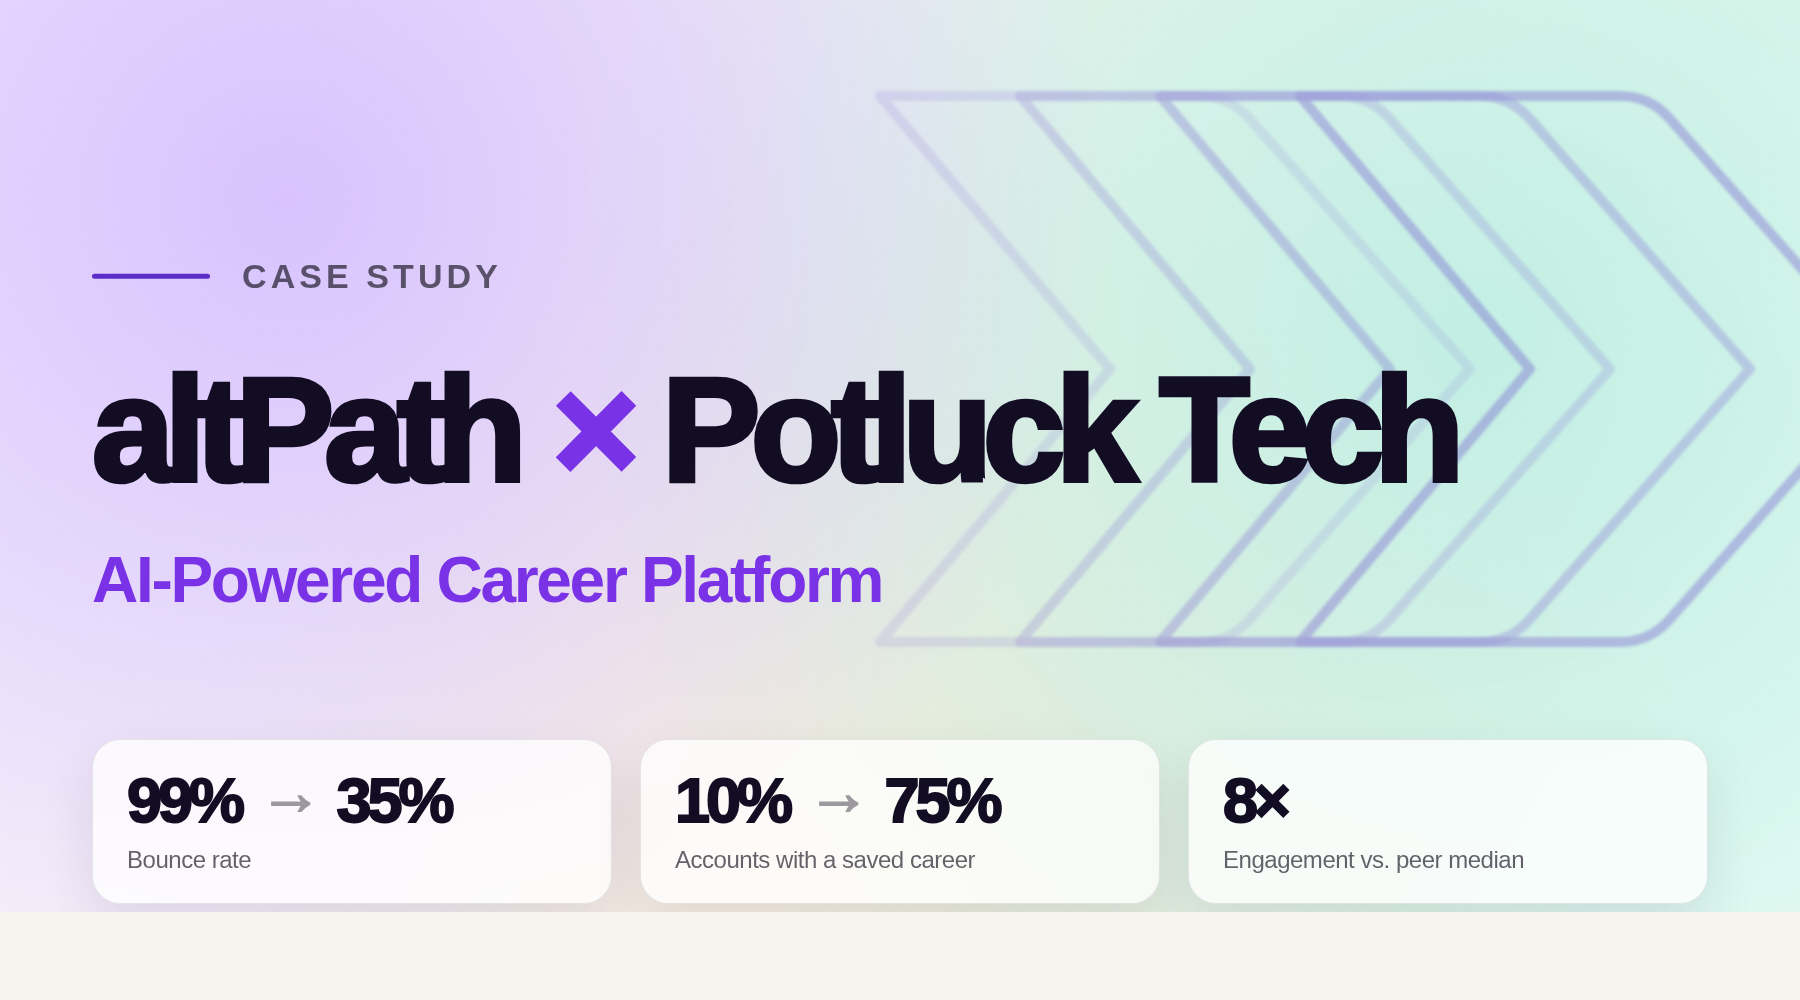
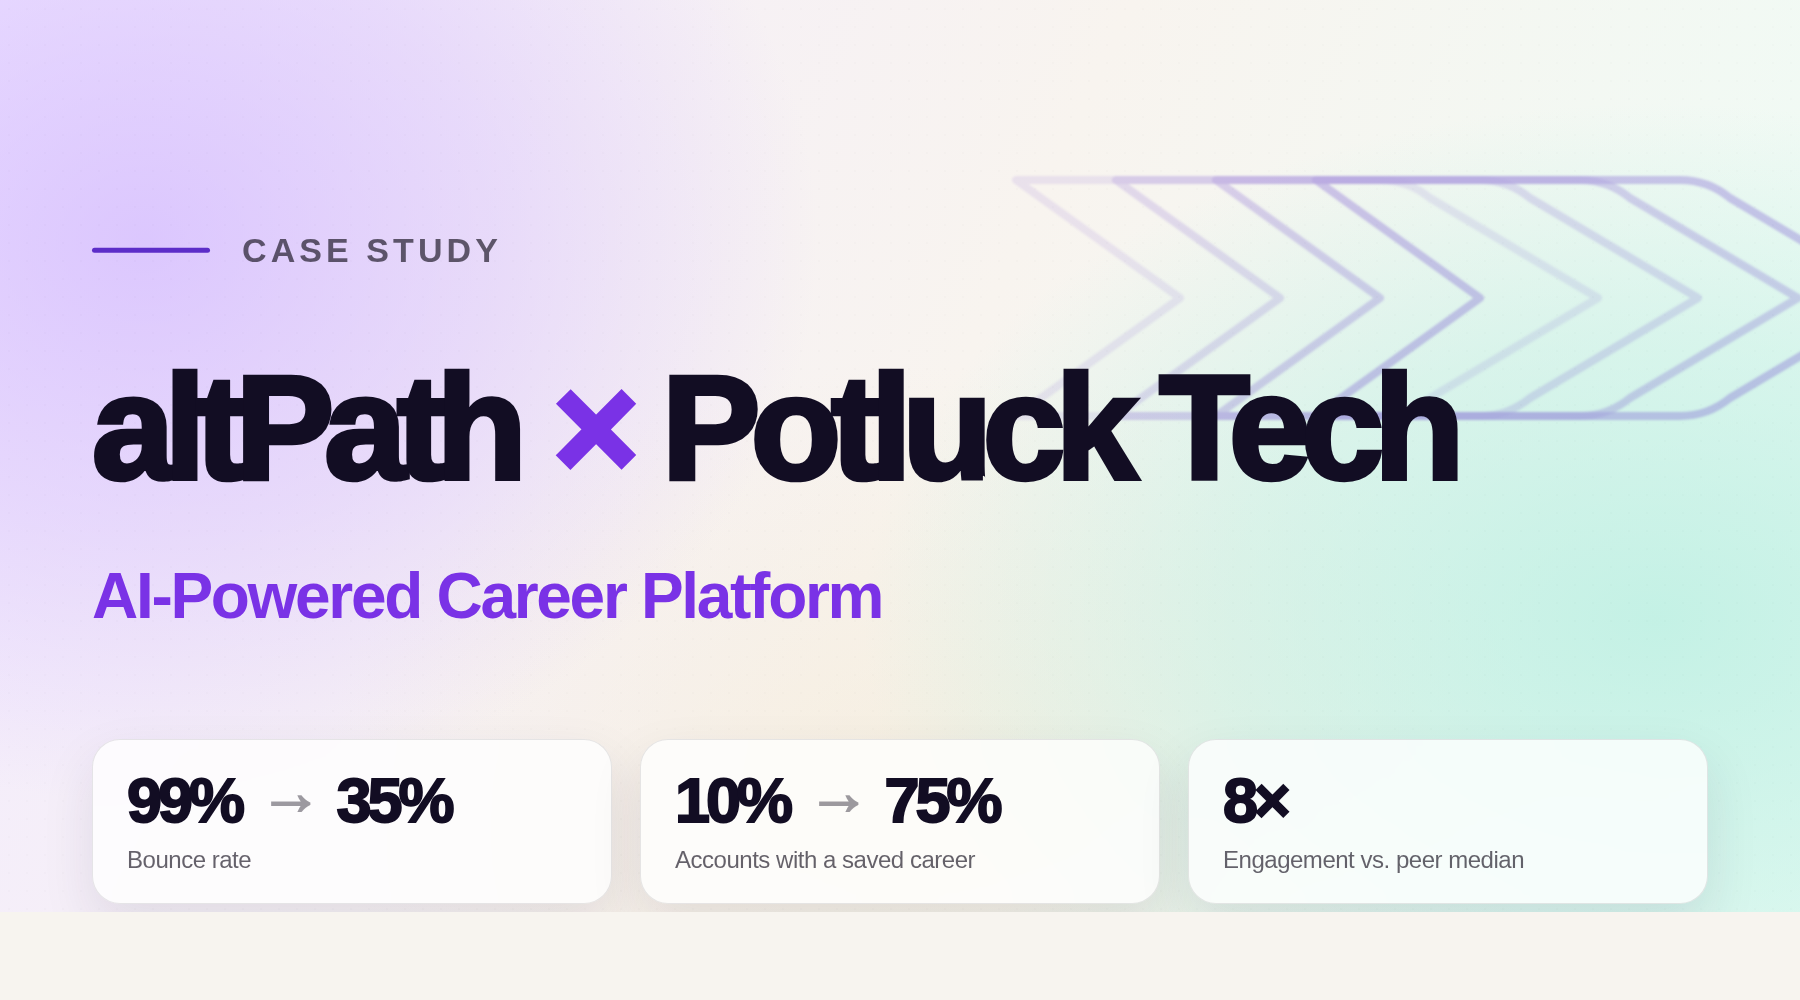
Refine altPath thumbnail visual treatment

diff --git a/docs/testimonials/assets/altpath-arete-rising/thumbnail-source.html b/docs/testimonials/assets/altpath-arete-rising/thumbnail-source.html
@@ -24,10 +24,10 @@
       overflow: hidden;
       padding: 92px 92px 86px;
       background:
-        radial-gradient(circle at 16% 20%, rgba(209, 185, 255, 0.82) 0, rgba(209, 185, 255, 0.44) 24%, rgba(209, 185, 255, 0) 48%),
-        radial-gradient(circle at 82% 34%, rgba(182, 238, 224, 0.82) 0, rgba(182, 238, 224, 0.48) 29%, rgba(182, 238, 224, 0) 56%),
-        radial-gradient(circle at 54% 84%, rgba(244, 232, 210, 0.78) 0, rgba(244, 232, 210, 0.38) 31%, rgba(244, 232, 210, 0) 58%),
-        linear-gradient(115deg, #f5edff 0%, #f8f4ef 48%, #eefdf8 100%);
+        radial-gradient(ellipse 52% 78% at 8% 24%, rgba(210, 184, 255, 0.72) 0, rgba(210, 184, 255, 0.38) 38%, rgba(210, 184, 255, 0) 72%),
+        radial-gradient(ellipse 58% 68% at 92% 62%, rgba(182, 238, 224, 0.76) 0, rgba(182, 238, 224, 0.42) 42%, rgba(182, 238, 224, 0) 76%),
+        radial-gradient(ellipse 46% 56% at 52% 78%, rgba(244, 232, 210, 0.50) 0, rgba(244, 232, 210, 0.22) 40%, rgba(244, 232, 210, 0) 74%),
+        linear-gradient(115deg, #f3ebff 0%, #f8f4ef 50%, #edfdf7 100%);
     }
     .canvas::after {
       content: "";
@@ -41,13 +41,13 @@
     }
     .chevron-field {
       position: absolute;
-      right: -140px;
-      top: 44px;
-      width: 1080px;
-      height: 650px;
+      right: -72px;
+      top: 118px;
+      width: 880px;
+      height: 360px;
       z-index: 1;
-      opacity: 0.42;
-      filter: blur(1.6px);
+      opacity: 0.40;
+      filter: blur(1.25px);
       transform: rotate(0deg);
     }
     .chevron-field svg {
@@ -57,24 +57,24 @@
       filter: drop-shadow(0 30px 70px rgba(87, 43, 190, 0.10));
     }
     .chev-outline {
-      fill: rgba(255, 255, 255, 0.08);
+      fill: none;
       stroke: #5c2dc8;
-      stroke-width: 10;
+      stroke-width: 8;
       stroke-linejoin: round;
       stroke-linecap: round;
       vector-effect: non-scaling-stroke;
     }
-    .chev-outline.c1 { opacity: 0.26; }
-    .chev-outline.c2 { opacity: 0.38; }
-    .chev-outline.c3 { opacity: 0.52; }
-    .chev-outline.c4 { opacity: 0.68; }
+    .chev-outline.c1 { opacity: 0.24; }
+    .chev-outline.c2 { opacity: 0.36; }
+    .chev-outline.c3 { opacity: 0.50; }
+    .chev-outline.c4 { opacity: 0.64; }
 
     .content {
       position: absolute;
       z-index: 3;
       left: 92px;
       right: 92px;
-      top: 47%;
+      top: 46.5%;
       transform: translateY(-50%);
       max-width: 1440px;
     }
@@ -82,7 +82,7 @@
       display: flex;
       align-items: center;
       gap: 32px;
-      margin-bottom: 72px;
+      margin-bottom: 96px;
       font-size: 34px;
       line-height: 1;
       font-weight: 850;
@@ -113,7 +113,7 @@
       padding: 0 0.03em;
     }
     .subtitle {
-      margin-top: 48px;
+      margin-top: 66px;
       max-width: 1080px;
       font-size: 64px;
       line-height: 1.16;
@@ -166,11 +166,11 @@
 <body>
   <main class="canvas" role="img" aria-label="Case study thumbnail for altPath x Potluck Tech with product outcome results">
     <div class="chevron-field" aria-hidden="true">
-      <svg viewBox="0 0 1080 650" role="presentation" focusable="false">
-        <path class="chev-outline c1" d="M 20 52 H 340 Q 370 52 390 75 L 610 325 L 390 575 Q 370 598 340 598 H 20 L 250 325 Z" />
-        <path class="chev-outline c2" d="M 160 52 H 480 Q 510 52 530 75 L 750 325 L 530 575 Q 510 598 480 598 H 160 L 390 325 Z" />
-        <path class="chev-outline c3" d="M 300 52 H 620 Q 650 52 670 75 L 890 325 L 670 575 Q 650 598 620 598 H 300 L 530 325 Z" />
-        <path class="chev-outline c4" d="M 440 52 H 760 Q 790 52 810 75 L 1030 325 L 810 575 Q 790 598 760 598 H 440 L 670 325 Z" />
+      <svg viewBox="0 0 880 360" role="presentation" focusable="false">
+        <path class="chev-outline c1" d="M 24 62 H 388 Q 416 62 438 80 L 606 180 L 438 280 Q 416 298 388 298 H 24 L 188 180 Z" />
+        <path class="chev-outline c2" d="M 124 62 H 488 Q 516 62 538 80 L 706 180 L 538 280 Q 516 298 488 298 H 124 L 288 180 Z" />
+        <path class="chev-outline c3" d="M 224 62 H 588 Q 616 62 638 80 L 806 180 L 638 280 Q 616 298 588 298 H 224 L 388 180 Z" />
+        <path class="chev-outline c4" d="M 324 62 H 688 Q 716 62 738 80 L 906 180 L 738 280 Q 716 298 688 298 H 324 L 488 180 Z" />
       </svg>
     </div>
 